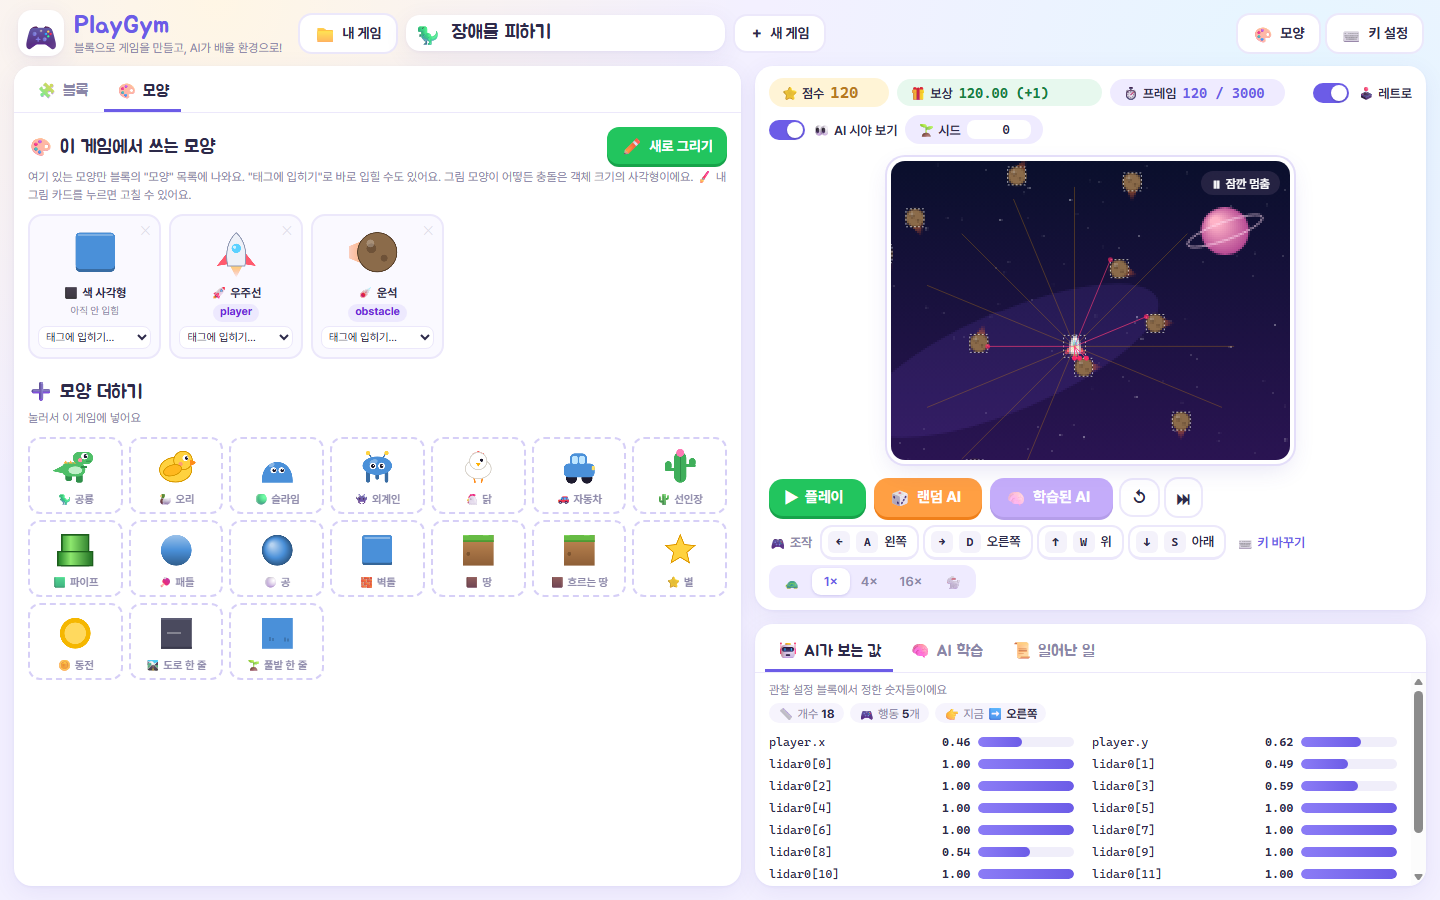
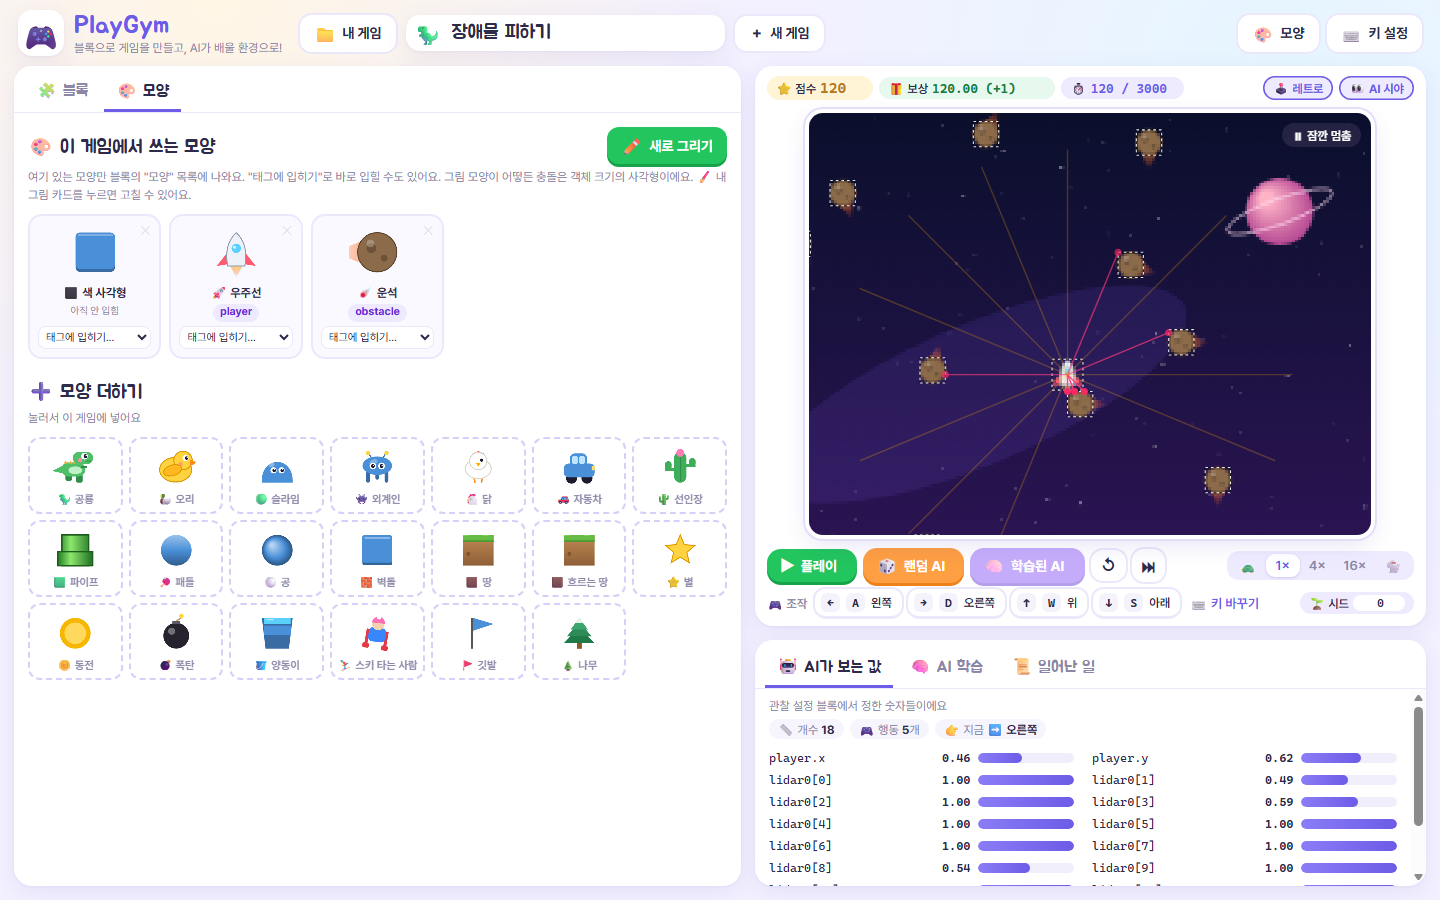
게임 카드 정리: 세 줄로 줄이고 게임 화면을 키움
- 점수·보상·프레임과 레트로·AI 시야(작은 토글 버튼)를 한 줄로.
- 플레이·랜덤 AI·학습된 AI·처음부터·한 칸 + 속도를 한 줄로, 시드는 조작 키 줄 끝으로.
- 글자·여백을 줄이고 아래 패널 기본 높이 32% → 30%.
- 1440×900 에서 게임 화면 약 445×335 → 565×420. 1366×768 에서도 줄바꿈 없음.

diff --git a/src/ui/style.css b/src/ui/style.css
@@ -62,7 +62,7 @@ button { cursor: pointer; }
 #blockly[hidden] { display: block !important; visibility: hidden; }
 #assets { position: absolute; inset: 0; display: flex; flex-direction: column; gap: 14px; padding: 14px; overflow: auto; }
 #assets[hidden] { display: none; }
-#side { display: grid; grid-template-rows: minmax(0, 1fr) 14px minmax(180px, 32%); min-height: 0; min-width: 0; }
+#side { display: grid; grid-template-rows: minmax(0, 1fr) 14px minmax(180px, 30%); min-height: 0; min-width: 0; }
 /* 끌어서 크기 바꾸는 선 */
 .splitter { position: relative; touch-action: none; user-select: none; }
 .splitter.v { cursor: col-resize; }
@@ -77,21 +77,26 @@ body.dragging.rows { cursor: row-resize; }
 body.dragging iframe, body.dragging #blockly { pointer-events: none; }
 
 /* ───── 게임 카드 ───── */
-#game-card { display: flex; flex-direction: column; padding: 12px 14px; gap: 10px; min-height: 0; }
+#game-card { display: flex; flex-direction: column; padding: 10px 12px; gap: 6px; min-height: 0; }
 #game-head { display: flex; align-items: center; gap: 8px; flex-wrap: wrap; }
-.pill { display: inline-flex; align-items: center; gap: 6px; padding: 5px 12px; border-radius: 999px; background: var(--primary-soft); font-size: 13px; font-weight: 600; }
+.pill { display: inline-flex; align-items: center; gap: 4px; padding: 3px 9px; border-radius: 999px; background: var(--primary-soft); font-size: 12px; font-weight: 600; }
 .pill { white-space: nowrap; }
-.pill b { font-family: var(--mono); font-size: 14px; color: var(--primary); }
+.pill b { font-family: var(--mono); font-size: 13px; color: var(--primary); }
 /* 숫자 폭이 바뀌어도 줄바꿈이 달라지지 않게 (줄이 바뀌면 게임 화면 크기가 출렁인다) */
 .pill b.fixed { display: inline-block; text-align: left; overflow: hidden; text-overflow: clip; }
 .pill b.w-score { width: 5ch; }
-.pill b.w-reward { width: 16ch; }
+.pill b.w-reward { width: 15ch; }
 .pill b.w-frame { width: 11ch; }
 .pill.score { background: #fff4d6; }
-.pill.score b { color: #b7791f; font-size: 16px; }
+.pill.score b { color: #b7791f; font-size: 15px; }
 .pill.reward { background: #e7f8ee; cursor: help; }
-.pill.reward b { color: #15803d; font-size: 14px; }
-.pill input { width: 64px; border: none; background: #fff; border-radius: 8px; padding: 2px 6px; font-family: var(--mono); text-align: right; }
+.pill.reward b { color: #15803d; font-size: 13px; }
+.pill input { width: 52px; border: none; background: #fff; border-radius: 8px; padding: 1px 6px; font-family: var(--mono); text-align: right; }
+#game-head { gap: 6px; }
+/* 켜고 끄는 작은 버튼 (레트로·AI 시야) */
+.tog { border: none; border-radius: 999px; padding: 4px 10px; font-size: 12px; font-weight: 700; background: #f0eef8; color: var(--muted); box-shadow: inset 0 0 0 1.5px var(--line); white-space: nowrap; }
+.tog.on { background: var(--primary-soft); color: var(--primary); box-shadow: inset 0 0 0 1.5px var(--primary); }
+.tog:hover { filter: brightness(0.98); }
 .spacer { flex: 1; }
 .switch { display: inline-flex; align-items: center; gap: 8px; font-size: 13px; font-weight: 600; cursor: pointer; user-select: none; }
 .switch input { display: none; }
@@ -120,7 +125,7 @@ body.dragging iframe, body.dragging #blockly { pointer-events: none; }
 @keyframes pop { from { transform: scale(0.92); opacity: 0; } to { transform: scale(1); opacity: 1; } }
 
 /* ───── 조작 버튼 ───── */
-#controls { display: flex; align-items: center; gap: 8px; flex-wrap: wrap; }
+#controls { display: flex; align-items: center; gap: 6px; flex-wrap: wrap; }
 .btn {
   display: inline-flex; align-items: center; gap: 6px; border: none; border-radius: 12px; padding: 8px 14px;
   font-weight: 700; font-size: 14px; background: var(--primary-soft); color: var(--text);
@@ -135,20 +140,21 @@ body.dragging iframe, body.dragging #blockly { pointer-events: none; }
 .btn.on { outline: 3px solid #2d2a4a22; }
 .btn.ghost { background: #fff; box-shadow: 0 0 0 2px var(--line); }
 .btn.icon { padding: 8px 11px; }
-#controls .btn.big { padding: 9px 15px; font-size: 15px; }
+#controls .btn.big { padding: 7px 13px; font-size: 14px; }
+#controls .btn.icon { padding: 6px 10px; }
 .btn:disabled { opacity: 0.5; cursor: default; transform: none; }
 .seg { display: inline-flex; background: var(--primary-soft); border-radius: 12px; padding: 3px; }
-.seg button { border: none; background: transparent; padding: 5px 11px; min-width: 38px; border-radius: 9px; font-size: 13px; font-weight: 600; color: var(--muted); }
+.seg button { border: none; background: transparent; padding: 3px 9px; min-width: 34px; border-radius: 9px; font-size: 13px; font-weight: 600; color: var(--muted); }
 .seg button.on { background: #fff; color: var(--primary); box-shadow: 0 1px 3px rgba(76, 58, 180, 0.2); }
 
 /* ───── 조작 키 안내 (게임패드) ───── */
-#pad { display: flex; align-items: center; gap: 8px; flex-wrap: wrap; font-size: 13px; }
+#pad { display: flex; align-items: center; gap: 6px; flex-wrap: wrap; font-size: 12px; }
 #pad .title { color: var(--muted); font-weight: 600; margin-right: 2px; }
 .key {
   display: inline-flex; align-items: center; gap: 6px; padding: 4px 10px 4px 6px; border-radius: 10px;
   background: #fff; box-shadow: 0 0 0 2px var(--line), 0 3px 0 var(--line); transition: all 0.06s;
 }
-.key .cap { min-width: 22px; height: 22px; padding: 0 5px; display: inline-grid; place-items: center; border-radius: 6px; background: #f4f2fb; font-family: var(--mono); font-size: 12px; font-weight: 700; }
+.key .cap { min-width: 19px; height: 19px; padding: 0 4px; display: inline-grid; place-items: center; border-radius: 6px; background: #f4f2fb; font-family: var(--mono); font-size: 12px; font-weight: 700; }
 .key .what { font-weight: 600; }
 .key.on { background: var(--primary); color: #fff; box-shadow: 0 0 0 2px var(--primary), 0 1px 0 var(--primary); transform: translateY(2px); }
 .key.on .cap { background: rgba(255, 255, 255, 0.25); }

diff --git a/src/ui/app.ts b/src/ui/app.ts
@@ -131,6 +131,7 @@ export class App {
     trained: HTMLButtonElement;
     speed: HTMLButtonElement[];
     seg: HTMLElement;
+    seedPill: HTMLElement;
     meta: HTMLElement | null;
     badge: HTMLElement;
   };
@@ -200,8 +201,22 @@ export class App {
     // 게임 머리: 점수·프레임·AI 시야·시드
     this.ui.score = el('b', { className: 'fixed w-score', textContent: '0' });
     this.ui.frame = el('b', { className: 'fixed w-frame', textContent: '0' });
-    const overlay = el('input', { type: 'checkbox', checked: true });
-    overlay.addEventListener('change', () => (this.overlay = overlay.checked));
+    // 켜고 끄는 작은 버튼 (스위치보다 자리를 덜 차지한다)
+    const toggle = (label: string, title: string, on: boolean, fn: (on: boolean) => void) => {
+      const b = el('button', { className: 'tog', innerHTML: label, title });
+      const set = (v: boolean) => {
+        b.classList.toggle('on', v);
+        b.setAttribute('aria-pressed', String(v));
+      };
+      set(on);
+      b.addEventListener('click', () => {
+        const v = !b.classList.contains('on');
+        set(v);
+        fn(v);
+      });
+      return b;
+    };
+    const overlay = toggle(`👀 ${ko.ui.aiViewShort}`, '센서가 무엇을 보고 있는지, 실제 충돌 사각형이 어디인지 화면에 그려요', true, (v) => (this.overlay = v));
     this.ui.seed = el('input', { type: 'number', value: '0', min: '0', step: '1' });
     this.ui.seed.addEventListener('change', () => {
       this.seed = Math.max(0, Math.floor(Number(this.ui.seed.value) || 0));
@@ -209,20 +224,20 @@ export class App {
       this.resetEpisode();
     });
     this.ui.reward = el('b', { className: 'fixed w-reward', textContent: '0' });
-    const retro = el('input', { type: 'checkbox', checked: loadPref('retro', '1') === '1' });
-    this.renderer.setRetro(retro.checked);
-    retro.addEventListener('change', () => {
-      this.renderer.setRetro(retro.checked);
-      savePref('retro', retro.checked ? '1' : '0');
+    const retroOn = loadPref('retro', '1') === '1';
+    this.renderer.setRetro(retroOn);
+    const retro = toggle(`🕹 ${ko.ui.retro}`, ko.ui.retroHint, retroOn, (v) => {
+      this.renderer.setRetro(v);
+      savePref('retro', v ? '1' : '0');
     });
+    // 한 줄: 점수·보상·프레임 | 레트로·AI 시야
     $('#game-head').append(
       el('span', { className: 'pill score' }, `⭐ ${ko.ui.score}`, this.ui.score),
       el('span', { className: 'pill reward', title: ko.reward.pillHint }, `🎁 ${ko.reward.pill}`, this.ui.reward),
-      el('span', { className: 'pill' }, `⏱ ${ko.ui.frame}`, this.ui.frame),
+      el('span', { className: 'pill', title: ko.ui.frame }, '⏱', this.ui.frame),
       el('span', { className: 'spacer' }),
-      el('label', { className: 'switch', title: ko.ui.retroHint }, retro, el('span', { className: 'track' }), `🕹 ${ko.ui.retro}`),
-      el('label', { className: 'switch', title: '센서가 무엇을 보고 있는지, 실제 충돌 사각형이 어디인지 화면에 그려요' }, overlay, el('span', { className: 'track' }), `👀 ${ko.ui.aiView}`),
-      el('span', { className: 'pill', title: ko.ui.seedHint }, `🌱 ${ko.ui.seed}`, this.ui.seed),
+      retro,
+      overlay,
     );
     this.ui.badge = el('div', { className: 'mode-badge' });
     $('#screen').append(this.ui.badge);
@@ -245,7 +260,10 @@ export class App {
       this.ui.trained,
       this.button(`<span class="i">↺</span>`, 'ghost icon', () => this.resetEpisode(), ko.ui.restart),
       this.button(`<span class="i">⏭</span>`, 'ghost icon', () => this.stepOnce(), `${ko.ui.step} (한 프레임만 진행)`),
+      el('span', { className: 'spacer' }),
+      seg,
     );
+    this.ui.seedPill = el('span', { className: 'pill seed', title: ko.ui.seedHint }, `🌱 ${ko.ui.seed}`, this.ui.seed);
   }
 
   private setSpeed(v: number): void {
@@ -287,7 +305,7 @@ export class App {
     }
     const edit = el('button', { className: 'linkbtn', textContent: `⌨ ${ko.ui.editKeys}` });
     edit.addEventListener('click', () => this.openKeys());
-    pad.append(edit, el('span', { className: 'spacer' }), this.ui.seg);
+    pad.append(edit, el('span', { className: 'spacer' }), this.ui.seedPill);
   }
 
   // ───────────── 블록 / 모양 탭 ─────────────

diff --git a/src/i18n/ko.ts b/src/i18n/ko.ts
@@ -106,6 +106,7 @@ export const ko = {
     normal: '보통',
     fast: '빠르게',
     aiView: 'AI 시야 보기',
+    aiViewShort: 'AI 시야',
     retro: '레트로',
     retroHint: '200×150 픽셀로 그려서 크게 보여 줘요 (오락실 느낌). 게임 좌표와 AI 가 보는 값은 그대로예요',
     seed: '시드',

diff --git a/docs/DEVELOPER.md b/docs/DEVELOPER.md
@@ -105,6 +105,7 @@ const r = env.step(1);                    // { obs, reward, terminated, truncate
   그리는 순서는 **태그가 처음 나타난 순서** (먼저 만든 태그가 아래) — 나중에 만든 배경용 객체가 주인공을 가리지 않게.
 - **크기 조절 선** (`src/ui/splitters.ts`): 블록|게임 세로 선, 게임/아래 패널 가로 선. 위치는 localStorage 에만 (두 번 누르면 처음대로).
   점수·보상·프레임 칸과 플레이 버튼은 폭을 고정했다 — 글자 폭이 바뀌어 줄바꿈이 달라지면 게임 화면 크기가 출렁였다.
+- **게임 카드는 세 줄**: 점수·보상·프레임 + 레트로·AI 시야 토글 / 플레이 버튼들 + 속도 / 조작 키 + 시드. 1366×768 에서도 한 줄씩 들어가게 맞췄고, 남는 높이는 모두 게임 화면에 준다.
 - **UI**: 둥근 블록(zelos), 3분할(블록 / 게임 화면 / AI가 보는 값·AI 학습·일어난 일 탭), 플레이·랜덤 AI·학습된 AI·처음부터·한 칸·
   속도(0.25×~64×)·AI 시야·시드·내 게임·키 설정·모양 탭, 누른 키(또는 AI 가 고른 행동)에 불 들어오는 조작 안내
 - **모양·배경 그림** (`src/render/costumes.ts`, `backdrops.ts`): 태그 단위 "모양" 블록(공룡·오리·우주선·슬라임·선인장·파이프·운석·패들·공·벽돌·땅·별·동전)과
